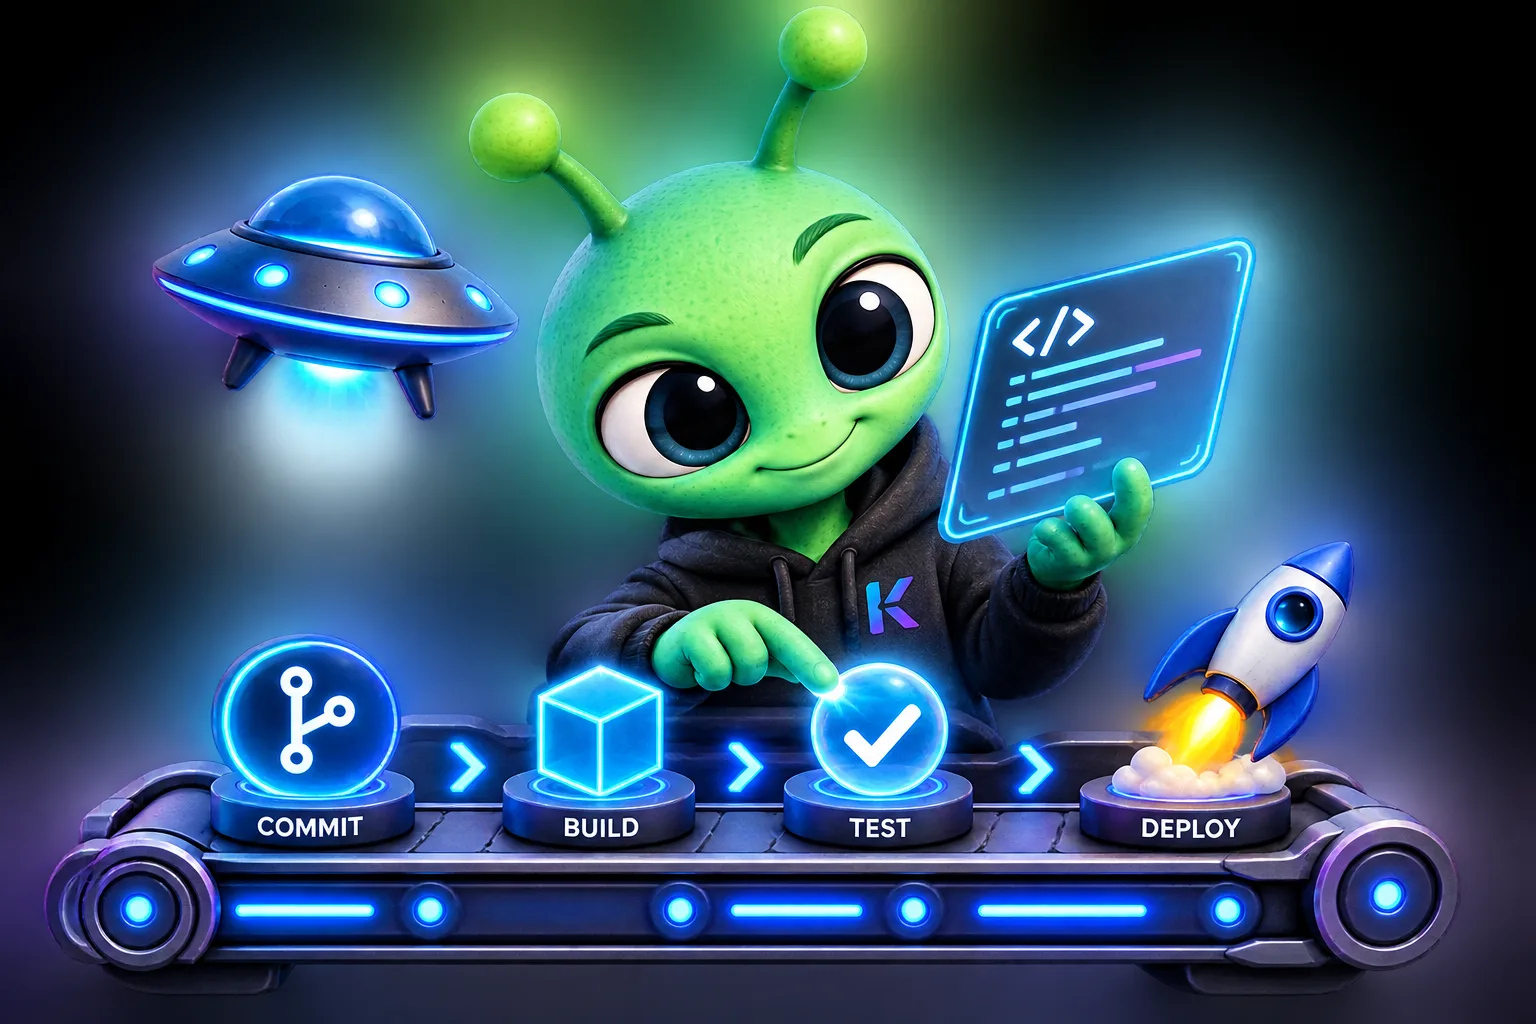
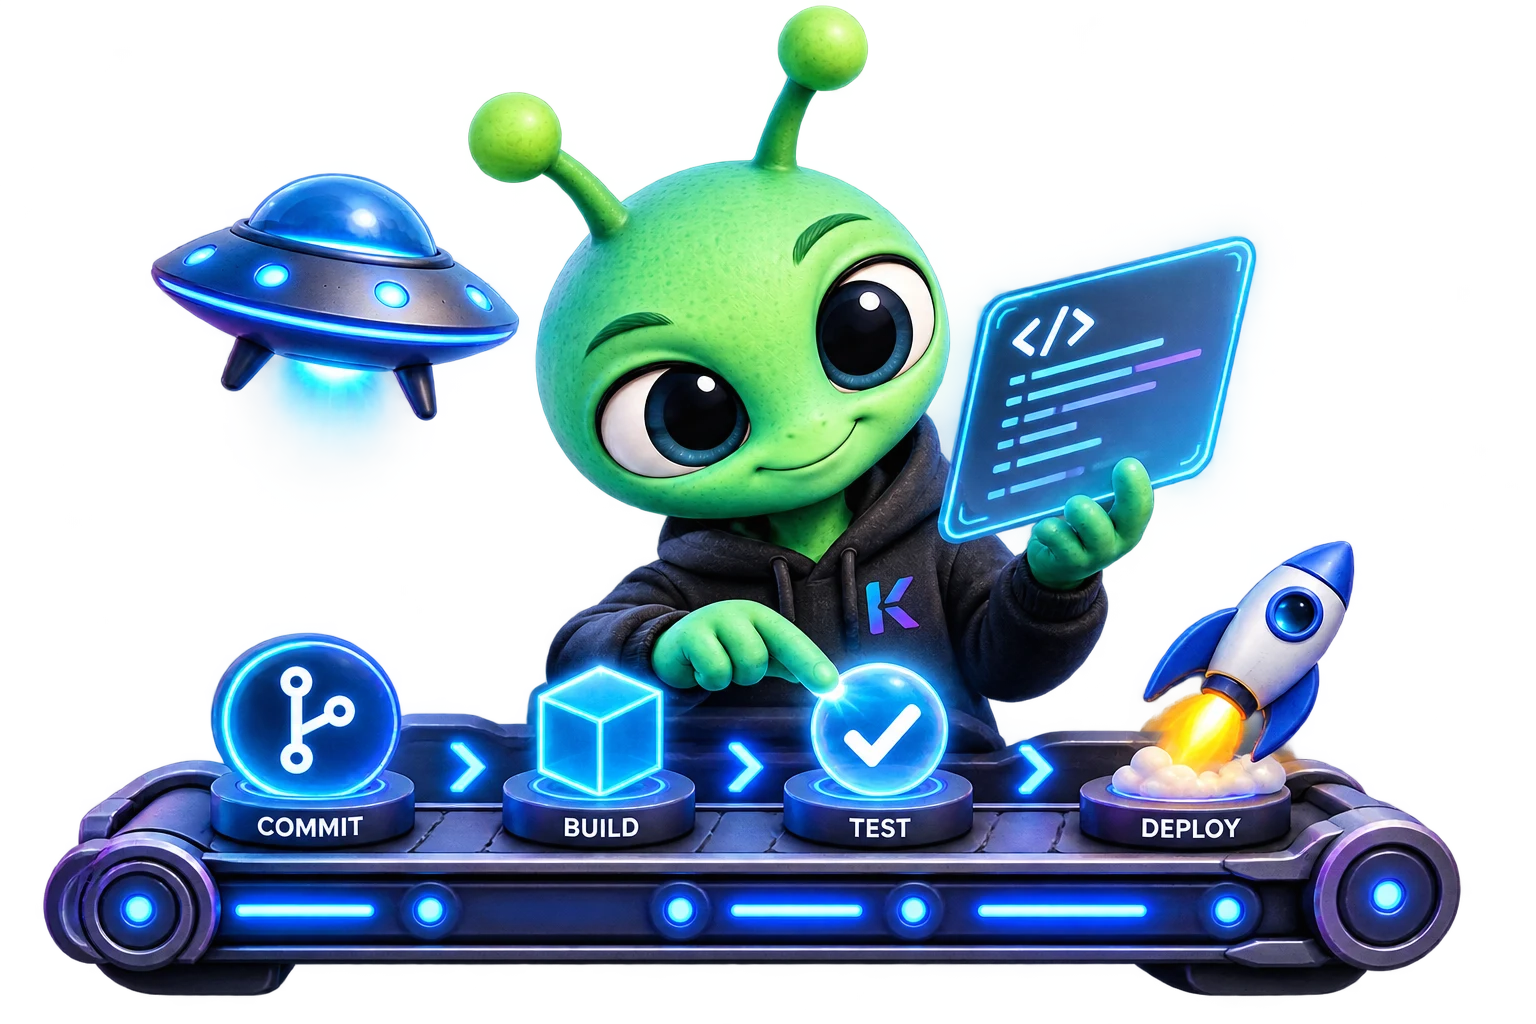
👽 Mascot keeps its transparency — no card, sits on the hero

diff --git a/index.html b/index.html
@@ -156,7 +156,7 @@
     border-radius:100px;padding:3px 10px;margin-bottom:12px;text-transform:uppercase;
   }
 
-  .hero-mascot{max-width:880px;margin:56px auto 0;border-radius:16px;overflow:hidden;box-shadow:var(--shadow-overlay)}
+  .hero-mascot{max-width:920px;margin:40px auto 0}
   .hero-mascot img{width:100%;height:auto;display:block}
 
   .split{display:grid;grid-template-columns:1fr 1fr;gap:32px;align-items:start;margin-top:40px}
